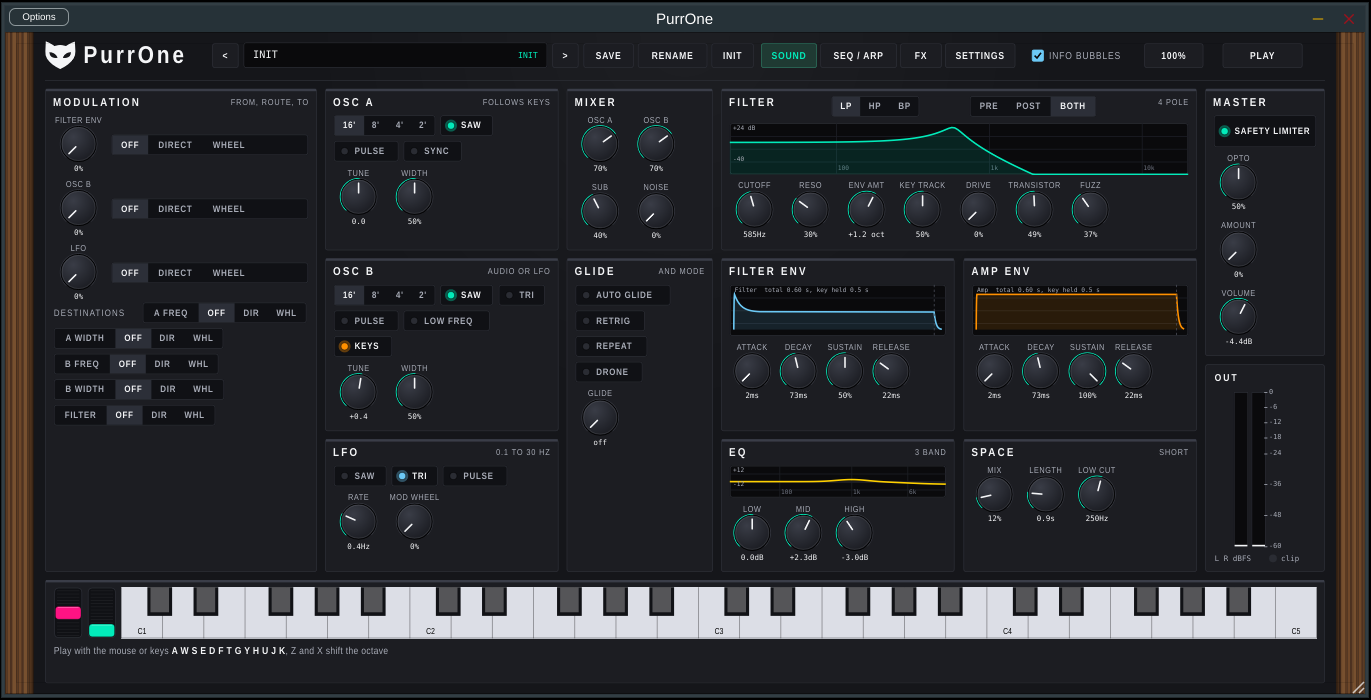
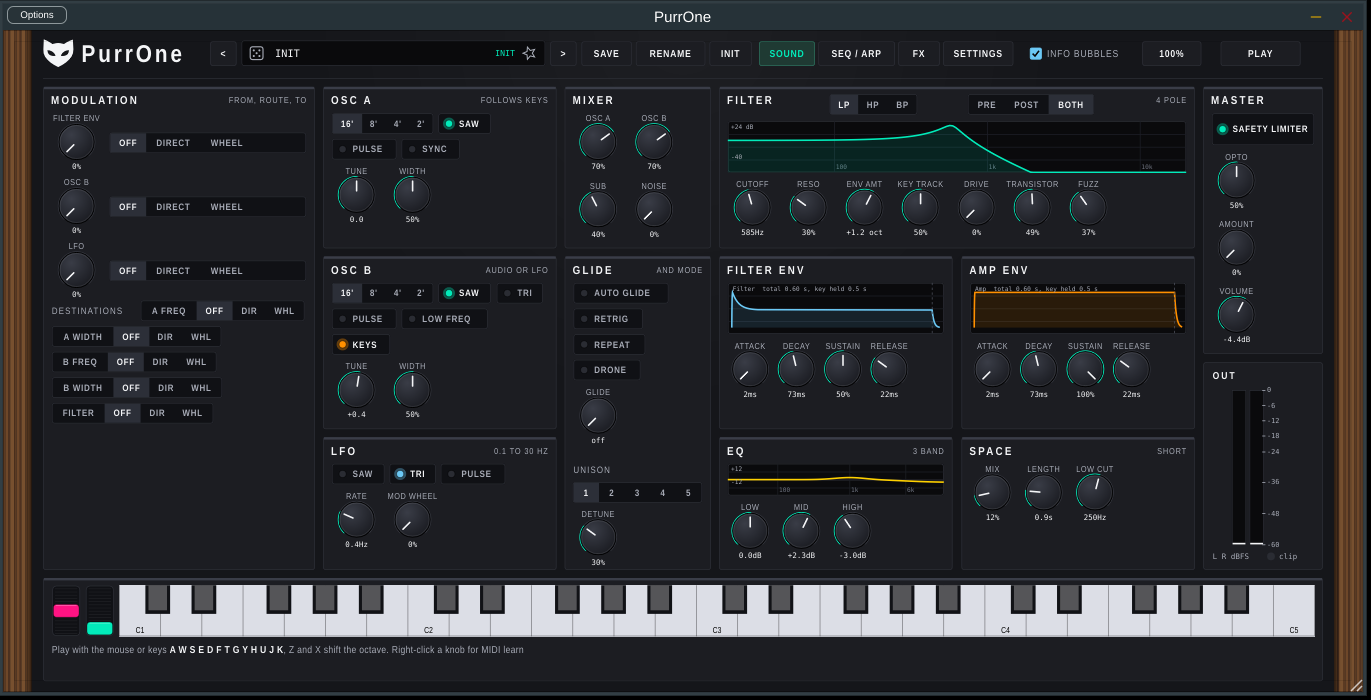
Docs: unison in manual and README, new screenshot (v0.3.0)
Claude-Session: https://claude.ai/code/session_019TnJtziw9TzxJpcD67FRDR

diff --git a/README.md b/README.md
@@ -4,12 +4,12 @@ A free, open source mono synth plugin with a thick, smooth sound, built for bass
 
 Status: early development (test builds). The sound engine, effects, factory presets and a VST3/standalone shell (generic editor) build. The custom interface, step sequencer, arpeggiator and new FX pages are in. Not yet tested in a real host. See [ROADMAP.md](ROADMAP.md) and [docs/SPEC.md](docs/SPEC.md).
 
-<p align="center"><img src="docs/screenshot.png" alt="PurrOne editor" width="900"><br><sub>The PurrOne editor (v0.2.5).</sub></p>
+<p align="center"><img src="docs/screenshot.png" alt="PurrOne editor" width="900"><br><sub>The PurrOne editor (v0.3.0).</sub></p>
 
 ## What it is
 - Two oscillators with hard sync, plus a warm sub oscillator, noise and a mixer.
 - A 4 pole self-oscillating filter with low-pass, high-pass and band-pass modes, two envelopes, an LFO and a mod matrix with a mod wheel path.
-- Glide and keyboard modes (normal, retrig, repeat, drone). Step sequencer (up to 64 steps, 4 patterns, swing, slide, accent, per-step chance and ratchets, optional 303 squelch) and arpeggiator, started by the host, a key or a chosen note, with optional MIDI out (off by default). MIDI learn on any control, mod wheel and aftertouch routing, favourites and a random sound button.
+- Unison (1 to 5 detuned voices on one shared filter). Glide and keyboard modes (normal, retrig, repeat, drone). Step sequencer (up to 64 steps, 4 patterns, swing, slide, accent, per-step chance and ratchets, optional 303 squelch) and arpeggiator, started by the host, a key or a chosen note, with optional MIDI out (off by default). MIDI learn on any control, mod wheel and aftertouch routing, favourites and a random sound button.
 - Built-in effects, all with sane defaults that stay clean and never harsh (built, offline tested): 5 band graphic EQ (stereo, mid or side per band, optional dynamic, boost or cut, with live display), short reverb with pre-delay, damping, width and ducking, saturation and drive, bit crusher, opto, OTT, Dance master, stereo width, multiband maximizer, safety limiter. New modules start off or neutral, so the sound is unchanged until you use them.
 - Preset manager with 384 factory sounds in banks A to C (128 each, not yet auditioned by ear), four empty banks D to G for your own sounds, and a preset dropdown on each FX module.
 - Dark interface, white text, wood side panels, coloured lights only on small LEDs, big stereo output meter. Four pages: Sound, Seq / Arp, FX (with analyzer) and Settings (banks, tuning, random LFO, quality, window). The panel mockup is in docs/mockup.
